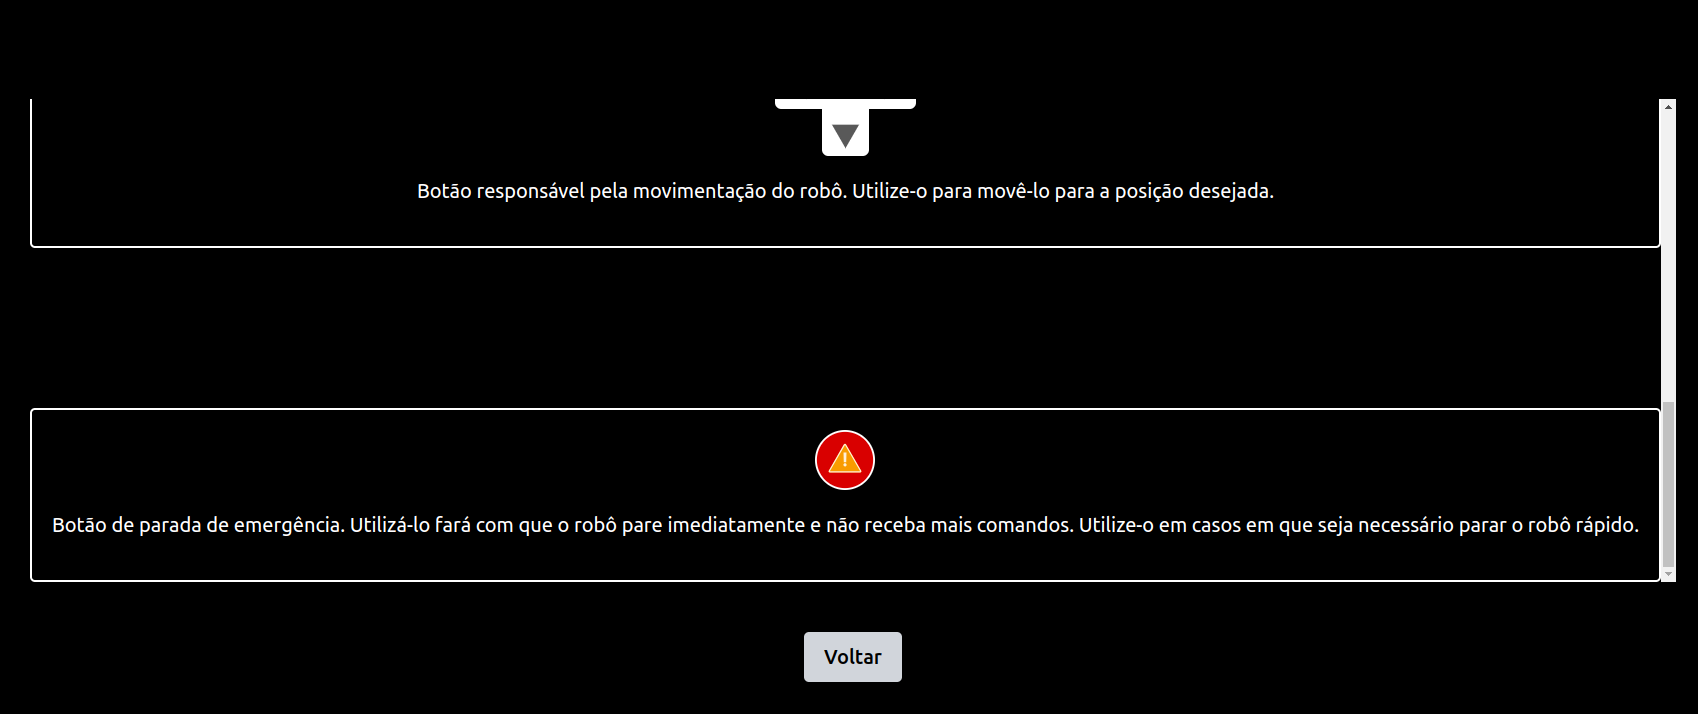
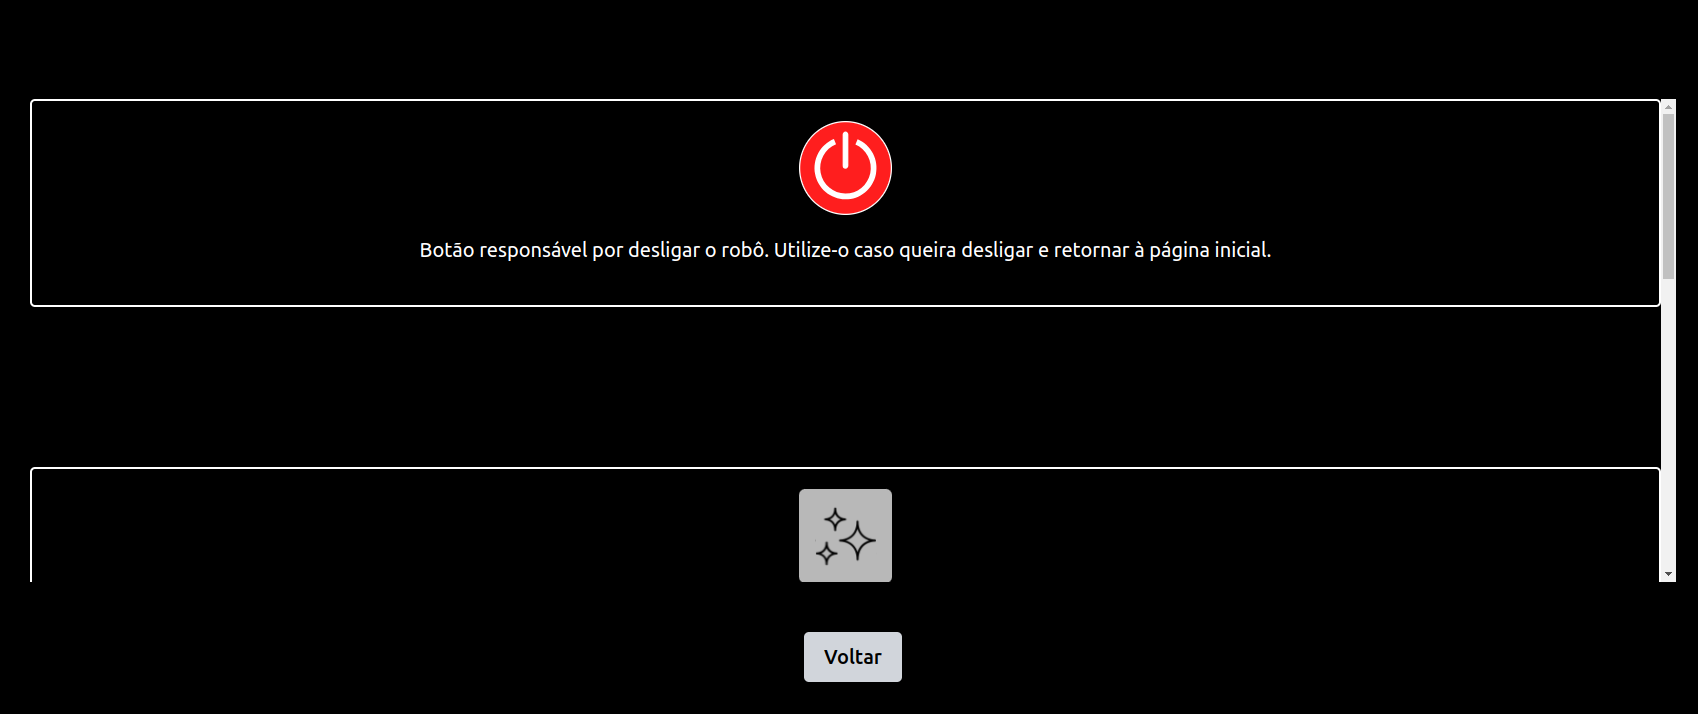
docs: info & imgs fixes

diff --git a/docs/docs/sprint-3/Metodologia/Interface.md b/docs/docs/sprint-3/Metodologia/Interface.md
@@ -2,28 +2,35 @@
 
 ## Introdução
 
-Durante a terceira sprint do projeto, a equipe SugarZ3ro concentrou seus esforços no desenvolvimento da interface gráfica. Conforme descrito na proposta inicial de arquitetura do projeto, a equipe utilizou React para construir a interface do usuário, permitindo uma interação intuitiva e eficiente com o sistema. A estilização foi realizada utilizando Tailwind CSS, que oferece uma abordagem utilitária para a aplicação de estilos, facilitando a manutenção e escalabilidade do projeto.
+&emsp;&emsp;Durante a terceira sprint do projeto, a equipe SugarZ3ro concentrou seus esforços no desenvolvimento da interface gráfica. Conforme descrito na proposta inicial de arquitetura do projeto, a equipe utilizou React para construir a interface do usuário, permitindo uma interação intuitiva e eficiente com o sistema. A estilização foi realizada utilizando Tailwind CSS, que oferece uma abordagem utilitária para a aplicação de estilos, facilitando a manutenção e escalabilidade do projeto.
 
 ## Tecnologias Utilizadas
 
 ### React
 - React é uma biblioteca JavaScript para construir interfaces de usuário de forma declarativa. React facilita a criação de componentes interativos e reutilizáveis, permitindo desenvolver aplicações complexas de forma mais eficiente. É amplamente usada para desenvolver aplicações web e móveis.
 
-### JSX
-- JSX é uma extensão de sintaxe para JavaScript usada junto com React. Permite escrever a estrutura do HTML dentro do código JavaScript, tornando o código mais legível e expressivo. JSX transforma elementos de HTML em funções de JavaScript.
-
 ### Tailwind CSS
 - Tailwind CSS é um framework de CSS que utiliza uma abordagem utilitária para estilos. Ao invés de escrever CSS tradicional, os desenvolvedores podem aplicar classes utilitárias diretamente em elementos HTML, o que simplifica a manutenção de estilos e acelera o processo de desenvolvimento.
 
-## Desenvolvimento
+---
 
-### Tela de Início
+&emsp;&emsp;No momento de desenvolvimento atual, o frontend da aplicação web envolvida na solução possui 3 telas/páginas principais, cada uma com um endpoint específico. Estas telas são: tela de início, tela de informações e tela de teleoperação, as quais serão apresentadas e detalhadas a seguir.
 
-#### Implementação
+## Tela de Início
 
-```js
-jsx
+&emsp;&emsp;A tela de início refere-se à primeira página que será visualizada pelo usuário ao utilizar a aplicação web. Nela, há a logo da equipe SugarZ3ro e dois botões sobre um fundo preto. Ao clicar no primeiro botão, no qual está inscrito `Start`, o usuário é redirecionado para a tela de teleoperação. Ao clicar no outro botão, no qual está inscrito um símbolo de `i`, o usuário é redirecionado para a tela de informações.
 
+<p style={{textAlign: 'center'}}>Figura 1 - Tela de início</p>
+
+<div style={{textAlign: 'center'}}>
+    ![Tela de início](../../../static/img/sprint-3/telainicial.png)
+</div>
+
+<p style={{textAlign: 'center'}}>Fonte: Elaborado pela equipe SugarZ3ro</p>
+
+### Implementação em React
+
+```jsx
 const MainMenu = () => {
   return (
     <div className="bg-black h-screen flex flex-col items-center justify-center">
@@ -43,22 +50,31 @@ const MainMenu = () => {
 export default MainMenu;
 ```
 
+## Tela de Informações
 
-*Estilos Tailwind:*
-- bg-black, text-black, text-white: Define as cores de fundo e de texto.
-- h-screen: Altura total da tela.
-- flex, flex-col: Layout flexível com direção de coluna.
-- items-center, justify-center: Centralização dos elementos.
-- rounded-full, hover:bg-gray-400: Estilos para arredondamento e interação de hover.
-- py-3, px-10: Padding vertical e horizontal.
+&emsp;&emsp;A tela de informações descreve a função de cada um dos componentes existentes na tela de teleoperação. Cada um dos componentes em questão são exibidos em sequência vertical, havendo a possibilidade de navegação do usuário pela barra de rolagem existente na página — implementação pensada com base na escalabilidade para interfaces mobile. Por meio dessa tela, o usuário pode compreender como teleoperar o robô com a aplicação web.
 
-### Tela de Informações
+<p style={{textAlign: 'center'}}>Figura 2 - Tela de informações (topo)</p>
 
+<div style={{textAlign: 'center'}}>
+    ![Tela de informações (topo)](../../../static/img/sprint-3/teladeinformacoes1.png)
+</div>
 
-#### Implementação
+<p style={{textAlign: 'center'}}>Fonte: Elaborado pela equipe SugarZ3ro</p>
 
-```js
-jsx
+<br/><br/>
+
+<p style={{textAlign: 'center'}}>Figura 3 - Tela de informações (baixo)</p>
+
+<div style={{textAlign: 'center'}}>
+    ![Tela de informações (baixo)](../../../static/img/sprint-3/teladeinformacoes2.png)
+</div>
+
+<p style={{textAlign: 'center'}}>Fonte: Elaborado pela equipe SugarZ3ro</p>
+
+### Implementação em React
+
+```jsx
 const HelpScreen = () => {
   return (
     <div className='flex items-center bg-black flex-col align-middle h-screen'>
@@ -70,16 +86,6 @@ const HelpScreen = () => {
           </p>
         </div>
       </div>
-      {/* <div className="w-[715px] h-[300px] overflow-y-scroll mt-20">
-        
-        <div className="bg-black text-white w-full flex flex-col items-center justify-center border-2 border-white rounded p-4 overflow-auto">
-          <img src={PowerIcon} alt="Power Icon" />
-          <p className="text-center my-4">
-            Botão responsável por desligar o robô. Utilize-o caso queira desligar e retornar à página inicial.
-          </p>
-        </div>
-       
-      </div> */}
       <div className='mt-10'>
         <BtVoltarCinza />
       </div>
@@ -88,47 +94,54 @@ const HelpScreen = () => {
 };
 ```
 
+## Tela de Teleoperação
 
-*Estilos Tailwind:*
-- bg-black, text-white: Define as cores de fundo e de texto.
-- flex, flex-col: Layout flexível com direção de coluna.
-- items-center, justify-center: Centralização dos elementos na vertical e horizontal.
-- border-2, border-white: Aplica uma borda de 2px na cor branca.
-- rounded: Arredondamento das bordas do container.
-- p-4: Padding interno de 1rem.
-- overflow-auto: Permite a rolagem automática dentro do elemento se o conteúdo exceder o tamanho do container.
-- mt-32: Margem superior de 8rem.
+&emsp;&emsp;A tela de teleoperação permite que o usuário controle a movimentação do robô remotamente. Nela, há a transmissão da imagem capturada pela câmera acoplada ao Turtlebot, o que permite uma melhor orientação de espaço ao usuário enquanto controla o movimento do robô pelos botões com setas indicativas de direção na parte inferior da tela. Vale citar que a movimentação por meio desses botões conta com **sistema de segurança**, cujo detalhamento pode ser visto na [respectiva seção da documentação](./sistema-de-seguranca.md).
 
-### Tela de Controle
+&emsp;&emsp;Além disso, há um botão de desligamento de emergência ao lado dos botões de movimentação e um botão que ativa funcionalidades de IA na parte superior da tela. Esse último ainda não se apresenta funcional, uma vez que sua implementação completa se dará na sprint 4 de desenvolvimento.
 
+<p style={{textAlign: 'center'}}>Figura 4 - Tela de teleoperação</p>
 
-#### Implementação
+<div style={{textAlign: 'center'}}>
+    ![Tela de teleoperação](../../../static/img/sprint-3/teladecontrole.png)
+</div>
 
-```js
-jsx
+<p style={{textAlign: 'center'}}>Fonte: Elaborado pela equipe SugarZ3ro</p>
+
+### Implementação em React
+
+```jsx
 function TeleopScreen() {
   return (
-    <>
-      <h1>Teleoperação</h1>
-      <InfoPing />
-      <AiButton />
-      <WarningButton />
-      <TurnOffButton />
-      <BtVoltarCinza />
-    </>
-  )
+    <TurtleBotController>
+      {({ movementhandlers, collision }) => (
+        <>
+          <h1>Teleoperação</h1>
+          {collision && <div className="alert">OBSTÁCULO DETECTADO!</div>}
+          <AiButton />
+          <VideoStream />
+          <MoveForward movementhandlers={movementhandlers} collision={collision} />
+          <MoveLeft movementhandlers={movementhandlers} collision={collision} />
+          <MoveBackward movementhandlers={movementhandlers} collision={collision} />
+          <MoveRight movementhandlers={movementhandlers} collision={collision} />
+          <TurnoffButton movementhandlers={movementhandlers} />
+        </>
+      )}
+    </TurtleBotController>
+  );
 }
 ```
 
-
-
 *Descrição dos Componentes:*
-- InfoPing: Mostra informações sobre o status da conexão ou outros indicadores de rede.
-- AiButton: Permite ao usuário ativar funcionalidades de inteligência artificial para análise de imagem ou dados em tempo real.
-- WarningButton: Serve como um botão de emergência, que pode ser usado para alertar sobre condições críticas ou para parar o robô imediatamente.
-- TurnOffButton: Este botão é responsável por desligar o robô, encerrando as operações e retornando à tela inicial.
-- BtVoltarCinza: Um botão para voltar à tela anterior ou principal.
+- AiButton:      Permite ao usuário ativar funcionalidades de inteligência artificial para análise da imagem capturada pelo câmera acoplada ao Turtlebot.
+- VideoStream:   Transmite a imagem capturada pela câmera acoplada ao Turtlebot
+- MoveForward:   Botão para movimentar o Turtlebot para frente
+- MoveLeft:      Botão para movimentar o Turtlebot para esquerda
+- MoveRight:     Botão para movimentar o Turtlebot para direita
+- MoveBackward:  Botão para movimentar o Turtlebot para trás
+- TurnOffButton: Responsável pela parada de emergência que encerra a movimentação do robô e desliga a comunicação com ele, encerrando as operações e retornando à tela inicial.
+
 
 ## Conclusão
 
-O processo de transformação de wireframes para componentes interativos foi guiado pelo uso de React e Tailwind CSS, permitindo um desenvolvimento ágil e modular. Esta abordagem assegurou que cada componente pudesse ser desenvolvido, testado e estilizado em uma pagina de forma independente.
+&emsp;&emsp;O processo de transformação de wireframe para componentes interativos foi guiado pelo uso de React e Tailwind CSS, permitindo um desenvolvimento ágil e modular. Esta abordagem assegurou que cada componente pudesse ser desenvolvido, testado e estilizado em uma pagina de forma independente.

diff --git a/docs/docs/sprint-3/Metodologia/sistema-de-seguranca.md b/docs/docs/sprint-3/Metodologia/sistema-de-seguranca.md
@@ -2,7 +2,7 @@
 
 ## Introdução
 
-&emsp;&emsp;Na sprint 2, foram apresentados dois sistemas de segurança pelo grupo SugarZ3ro, atrelados ao controle do turtlebot, onde o usuário teria mais precisão e a opção de acionar uma parada de emergência ao pressionar a tecla ```Q```. Agora, na sprint 3, foram feitas mudanças significativas no sistema de segurança, implementando um código responsável por detectar obstáculos na trajetória do robô e tomar medidas preventivas para **evitar colisões**.
+&emsp;&emsp;Na sprint 2, foram apresentados dois sistemas de segurança pelo grupo SugarZ3ro atrelados ao controle do Turtlebot, através dos quais o usuário teria mais precisão na movimentação e a opção de acionar uma parada de emergência ao pressionar a tecla ```Q```. Agora, na sprint 3, foram feitas mudanças significativas no sistema de segurança, implementando um código responsável por detectar obstáculos na trajetória do robô e tomar medidas preventivas para **evitar colisões**.
 
 &emsp;&emsp;O sistema de segurança utiliza dados de um LiDAR (Laser Imaging Detection and Ranging) para monitorar a distância de objetos ao redor do turtlebot. Se um objeto for detectado a uma distância pré-definida como perigosa, o sistema ajusta a velocidade do robô para que seja possível afastá-lo do obstáculo.
 
@@ -18,7 +18,9 @@
 
 <p style={{textAlign: 'center'}}>Fonte: Elaborado pela equipe SugarZ3ro</p>
 
-&emsp;&emsp;No print, é vista a tela de teleoperação do sistema. Ao detectar o obstáculo, um alerta aparece na parte superior da interface e os botões de movimentação, com excessão do botão de movimentação para trás, são desativados. Assim, o usuário tem somente a opção de mover-se para trás, afastando-se do objeto e evitando uma possível colisão.
+&emsp;&emsp;No print, é vista a tela de teleoperação do sistema. Ao detectar o obstáculo, um alerta aparece na parte superior da interface e os botões de movimentação, com exceção do botão de movimentação para trás, são desativados. Assim, o usuário tem somente a opção de mover-se para trás, afastando-se do objeto e evitando uma possível colisão.
+
+&emsp;&emsp;Ademais, há um botão de desligamento/parada de emergência ao lado dos botões de movimentação, o qual interrompe a movimentação do robô. Com este botão, há uma segunda alternativa para evitar colisões com obstáculos ou evitar a movimentação do robô para locais indesejados. 
 
 ## Sistema de Segurança - CLI
 

diff --git a/docs/docs/sprint-3/Metodologia/movimentacao.md b/docs/docs/sprint-3/Metodologia/movimentacao.md
@@ -5,7 +5,7 @@ sidebar_position: 2
 
 ## Introdução 
 
-&emsp;&emsp;Nessa seção será abordado como foi feita a integração do frontend com a movimentação do turtlebot3 burger. Nota-se que o frontend foi construído em react. Para mais informações de como o frontend foi criado, [clique aqui](./Interface.md).
+&emsp;&emsp;Nessa seção será abordado como foi feita a integração do frontend com a movimentação do Turtlebot3 Burger. Nota-se que o frontend foi construído em react. Para mais informações de como o frontend foi criado, [clique aqui](./Interface.md).
 
 ## Mudanças do código da movimentação
 
